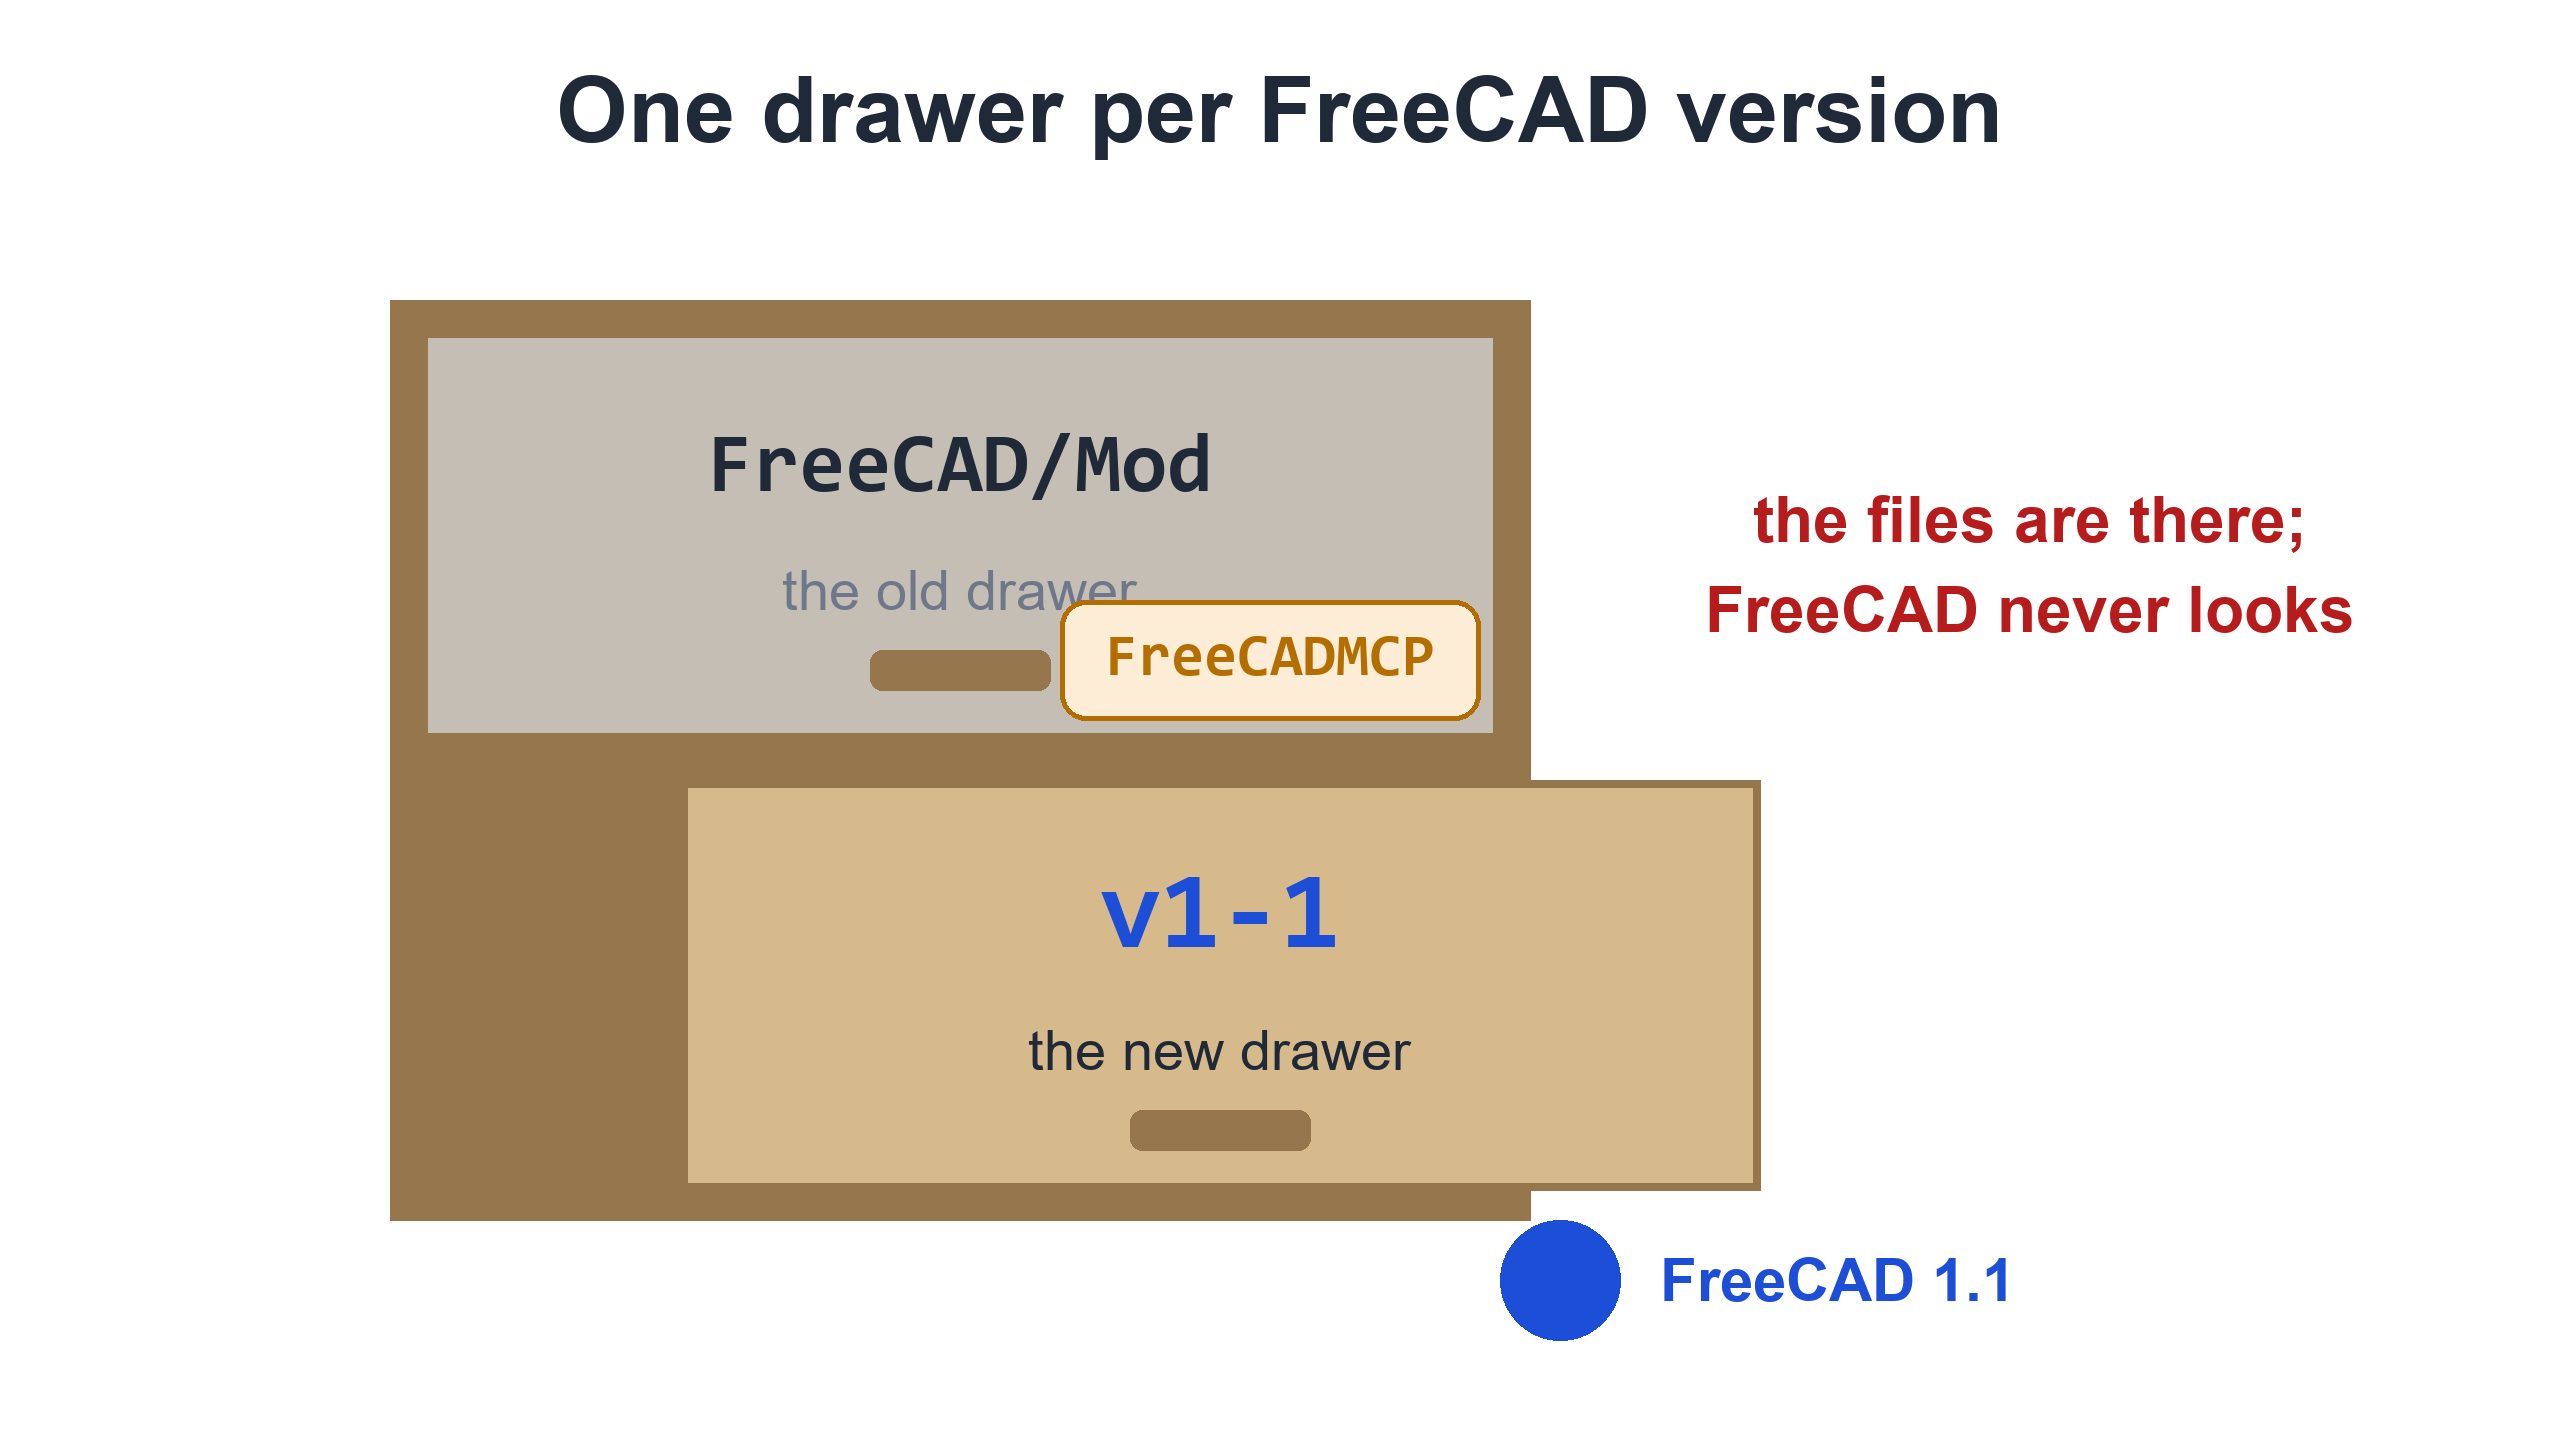
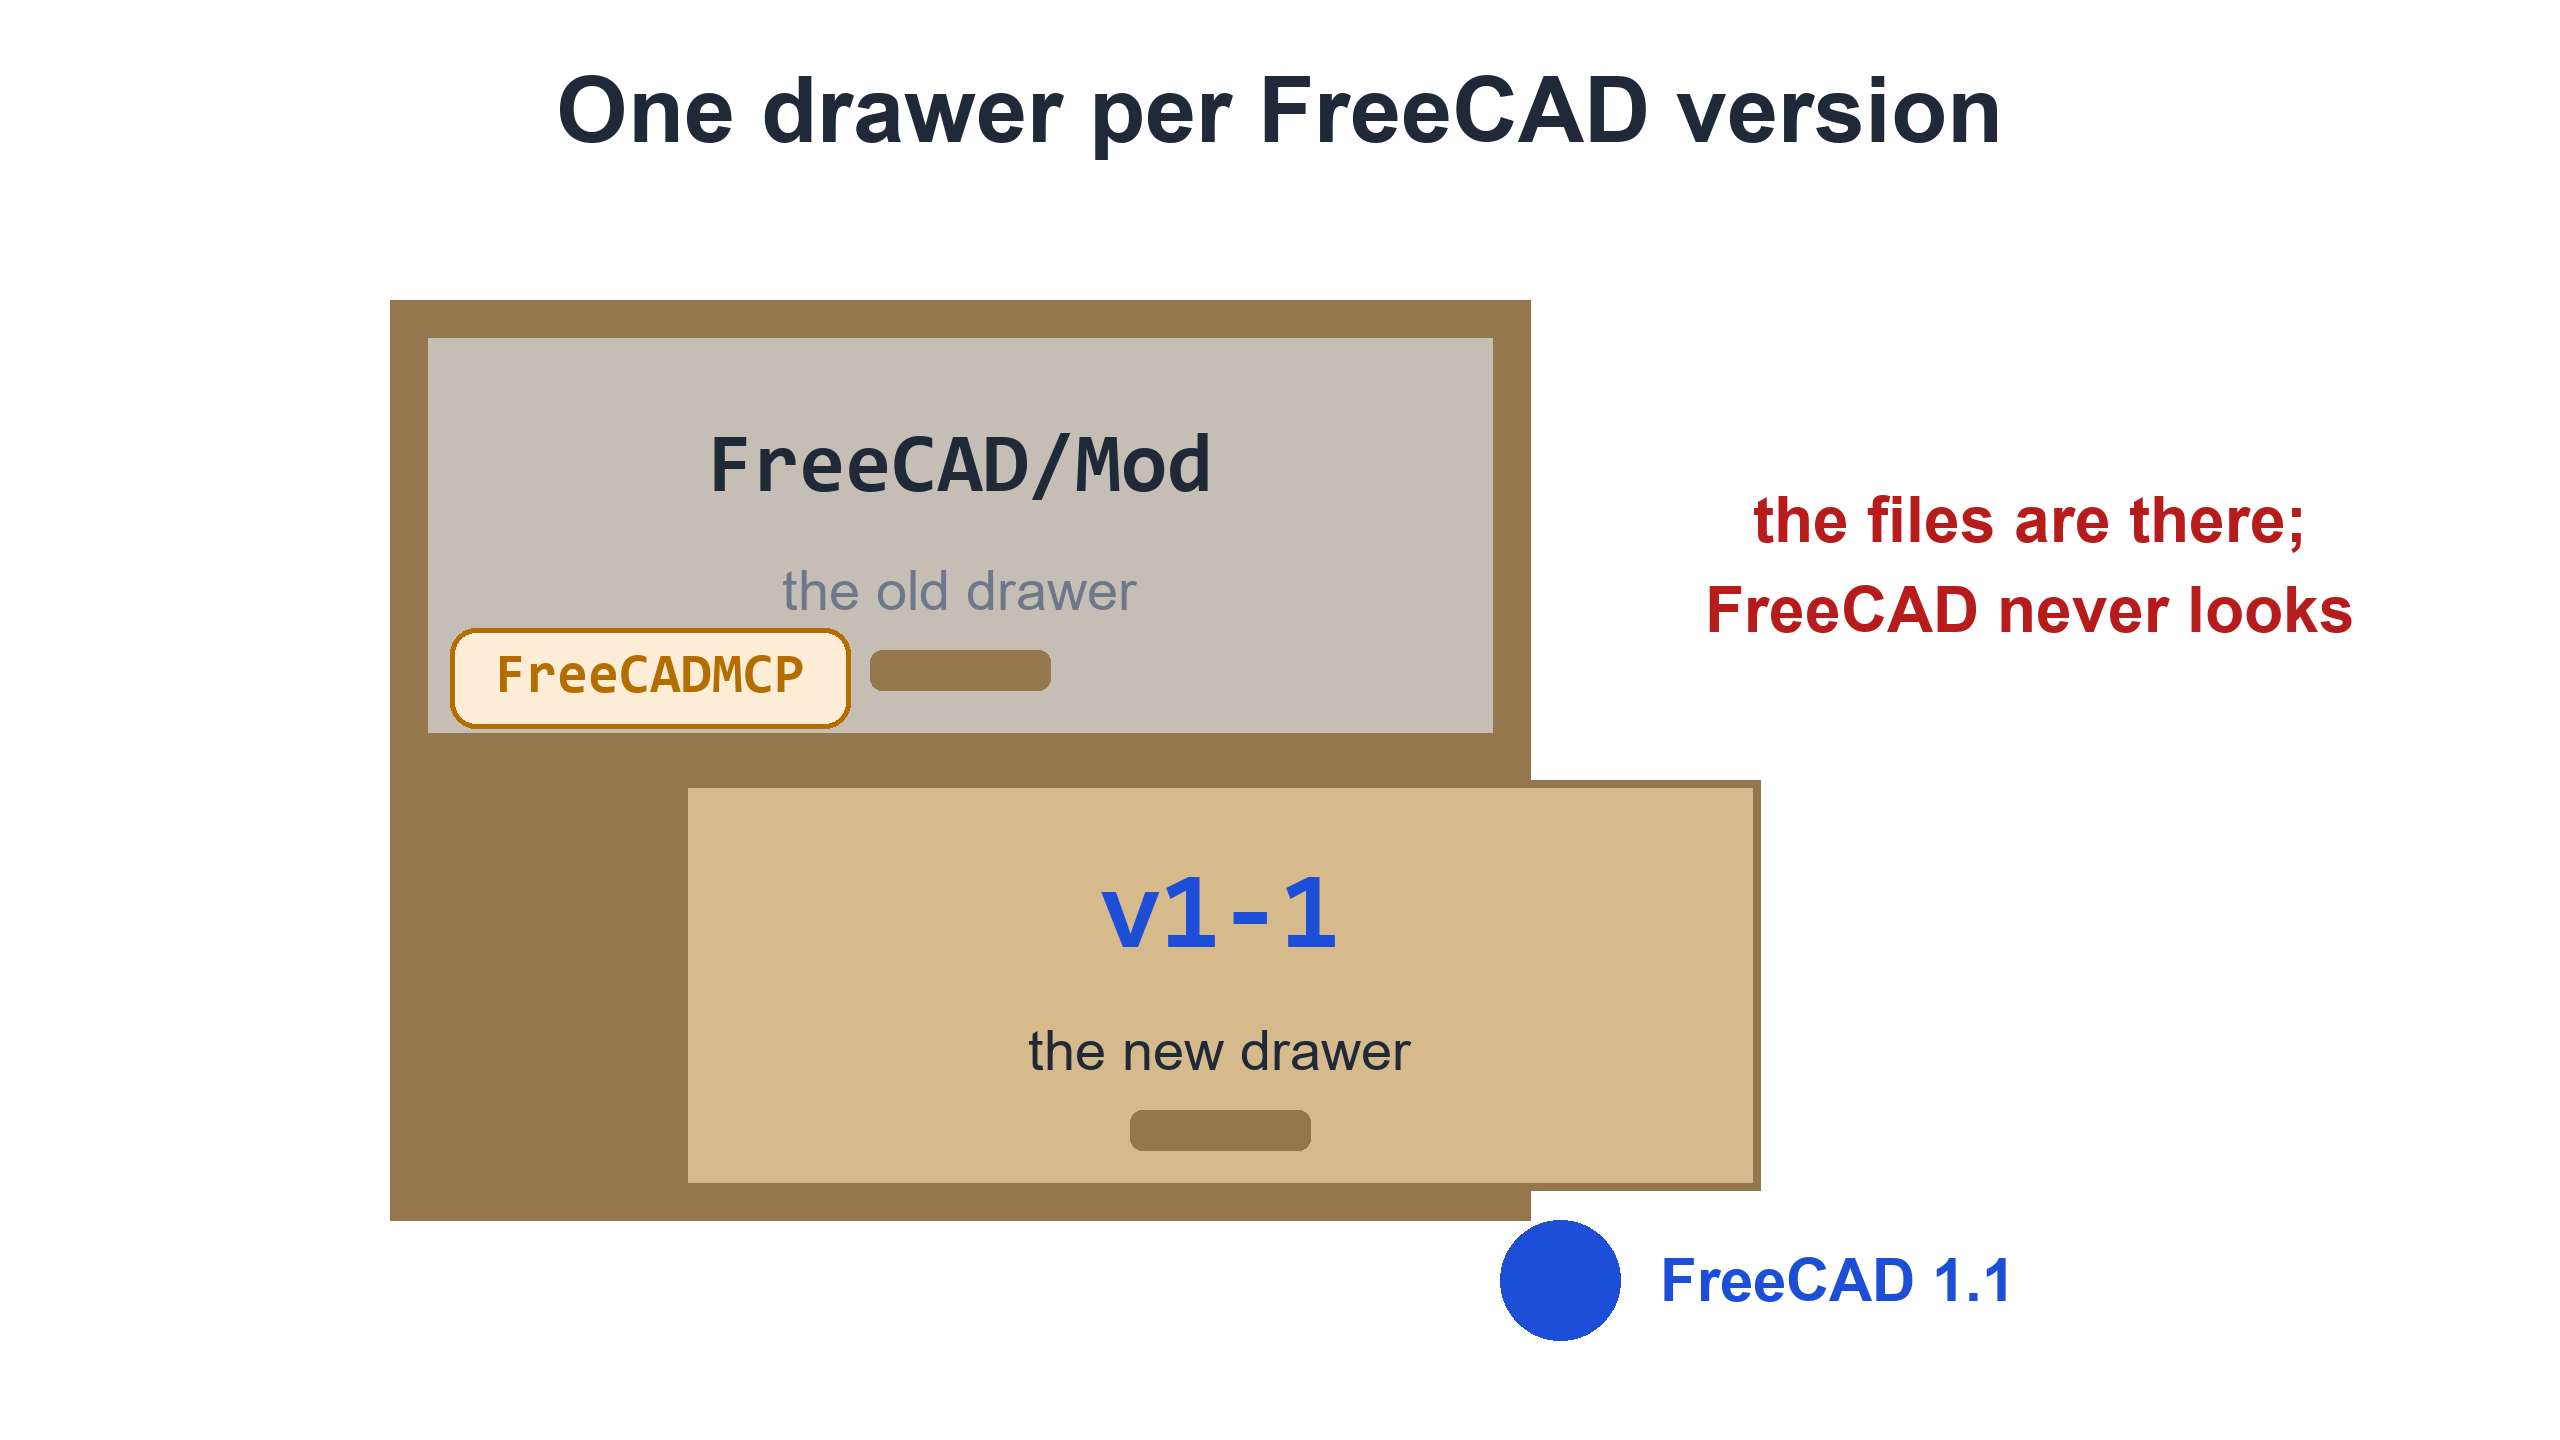
fx1 rev 5 cards: one tool cabinet that builds (card-cab-1a..1c, 2a..2c), drawer = a Mod folder, box = one add-on; add-on box clear of its drawer label

Changed region(s): [[0.4062, 0.4062, 0.5938, 0.5], [0.1562, 0.4375, 0.3438, 0.5312]]

diff --git a/video/draw_fx1.py b/video/draw_fx1.py
@@ -79,7 +79,7 @@ def dots(d, step, n, y=1360):
 
 
 # ---------------- the cabinet ----------------
-def cabinet(d, open_new=False, old_dust=True, addon_old=False, hand=False):
+def cabinet(d, open_new=False, old_dust=True, addon_old=False, hand=False, new_label='v1-1', hand_text='FreeCAD 1.1'):
     """A cabinet at the left-centre: top drawer = old FreeCAD/Mod, bottom drawer = v1-1."""
     x0, x1 = 420, 1500
     d.rectangle((x0 - 30, 300, x1 + 30, 1220), fill=WOOD_D)
@@ -91,17 +91,17 @@ def cabinet(d, open_new=False, old_dust=True, addon_old=False, hand=False):
     # new drawer (pulled out to the right when open)
     dx = 260 if open_new else 0
     d.rectangle((x0 + dx, 780, x1 + dx, 1190), fill=WOOD, outline=WOOD_D, width=8)
-    text(d, ((x0 + x1) / 2 + dx, 920), 'v1-1', 110, BLUE, MONOB, 'mm')
+    text(d, ((x0 + x1) / 2 + dx, 920), new_label, 110, BLUE, MONOB, 'mm')
     text(d, ((x0 + x1) / 2 + dx, 1050), 'the new drawer', 56, INK, R, 'mm')
     d.rounded_rectangle(((x0 + x1) / 2 + dx - 90, 1110, (x0 + x1) / 2 + dx + 90, 1150), radius=12, fill=WOOD_D)
     if addon_old:
-        box(d, 1060, 600, 1480, 720, fill=AMBER_BG, outline=AMBER, w=5)
-        text(d, (1270, 660), 'FreeCADMCP', 60, AMBER, MONOB, 'mm')
+        box(d, 450, 628, 850, 728, fill=AMBER_BG, outline=AMBER, w=5)   # rev 5: clear of 'the old drawer'
+        text(d, (650, 678), 'FreeCADMCP', 56, AMBER, MONOB, 'mm')
     if hand:
         # FreeCAD's hand: a blue pointer on the new drawer's handle
         hx, hy = x1 + dx - 260, 1280
         d.ellipse((hx, hy - 60, hx + 120, hy + 60), fill=BLUE)
-        text(d, (hx + 160, hy), 'FreeCAD 1.1', 60, BLUE, B, 'lm')
+        text(d, (hx + 160, hy), hand_text, 60, BLUE, B, 'lm')
 
 
 def card_drawer(step):
@@ -168,6 +168,53 @@ def card_drawer(step):
         text(d, (2030, 520), 'the files are there;', 64, RED, B, 'mm')
         text(d, (2030, 610), 'FreeCAD never looks', 64, RED, B, 'mm')
     save(im, f'card-drawer-{step}.png')
+
+
+def card_cab(step):
+    """Rev 5 (4 Nov): ONE cabinet that builds. 1a drawers + a box (the mapping), 1b + the name rule, 1c + the new
+    drawer open (FreeCAD 1.1's hand). 2a..2c are built on 1c: the older guide, the conclusion, trap one.
+    Mapping everywhere: drawer = a Mod folder, box = one add-on's folder."""
+    im, d = canvas()
+    two = step.startswith('2')
+    header(d, 'Trap one: the wrong drawer' if step == '2c' else 'A tool cabinet: one drawer per version')
+    opened = step != '1a' and step != '1b'
+    cabinet(d, open_new=opened, addon_old=True, hand=opened, new_label='v1-1/Mod', hand_text='1.1 opens v1-1/Mod')
+    X = 1840
+    if not two:
+        done = step != '1a'
+        c1, c2 = (GREY, GREY) if done else (INK, AMBER)
+        text(d, (X, 330), 'drawer = a Mod folder', 54, c1, B, 'la')
+        text(d, (X, 410), 'box = one add-on', 54, c2, B, 'la')
+        text(d, (X, 480), "(its folder: FreeCADMCP)", 46, GREY, R, 'la')
+        if step in ('1b', '1c'):
+            c = GREY if step == '1c' else None
+            x = X
+            for s_, col in [('v', INK), ('1', BLUE), ('-', INK), ('1', GREEN)]:
+                text(d, (x, 700), s_, 170, c or col, MONOB, 'lm')
+                x += 125
+            text(d, (X + 125 + 50, 840), 'major', 50, c or BLUE, B, 'mm')
+            text(d, (X + 375 + 50, 840), 'minor', 50, c or GREEN, B, 'mm')
+            text(d, (X, 940), '1.1 = major 1, minor 1', 50, c or INK, B, 'la')
+            text(d, (X, 1020), "(the rule in FreeCAD's code)", 44, GREY, R, 'la')
+    else:
+        box(d, 1840, 320, 2500, 840, fill=(250, 248, 240), outline=GREY)
+        text(d, (2170, 390), 'an older guide', 56, GREY, B, 'mm')
+        for k in range(3):
+            d.line((1900, 470 + k * 60, 2440, 470 + k * 60), fill=FAINT, width=12)
+        text(d, (2170, 690), 'copy to', 50, INK, B, 'mm')
+        text(d, (2170, 770), 'FreeCAD/Mod', 56, INK, MONOB, 'mm')
+        arrow(d, 1840, 640, 1560, 560, AMBER)
+        c = GREY if step != '2a' else AMBER
+        text(d, (2170, 920), 'that folder: easy to make,', 44, c, B, 'mm')
+        text(d, (2170, 980), 'or left from an older FreeCAD', 44, c, B, 'mm')
+        if step in ('2b', '2c'):
+            c = RED if step == '2b' else GREY
+            text(d, (2170, 1100), 'the files are there;', 56, c, B, 'mm')
+            text(d, (2170, 1175), 'FreeCAD never looks', 56, c, B, 'mm')
+        if step == '2c':
+            d.rounded_rectangle((560, 1330, 2000, 1425), radius=24, fill=(253, 226, 226), outline=RED, width=6)
+            text(d, (1280, 1378), 'trap one: the add-on is in the wrong drawer', 52, RED, B, 'mm')
+    save(im, f'card-cab-{step}.png')
 
 
 def card_paths(n=4):
@@ -276,6 +323,8 @@ def card_short_q():
 
 
 if __name__ == '__main__':
+    for s in ('1a', '1b', '1c', '2a', '2b', '2c'):
+        card_cab(s)
     for s in (1, 2, 3, '4a', 4, '4b', 5, '5b', '5c', 6):
         card_drawer(s)
     for n in (1, 2, 3, 4):
